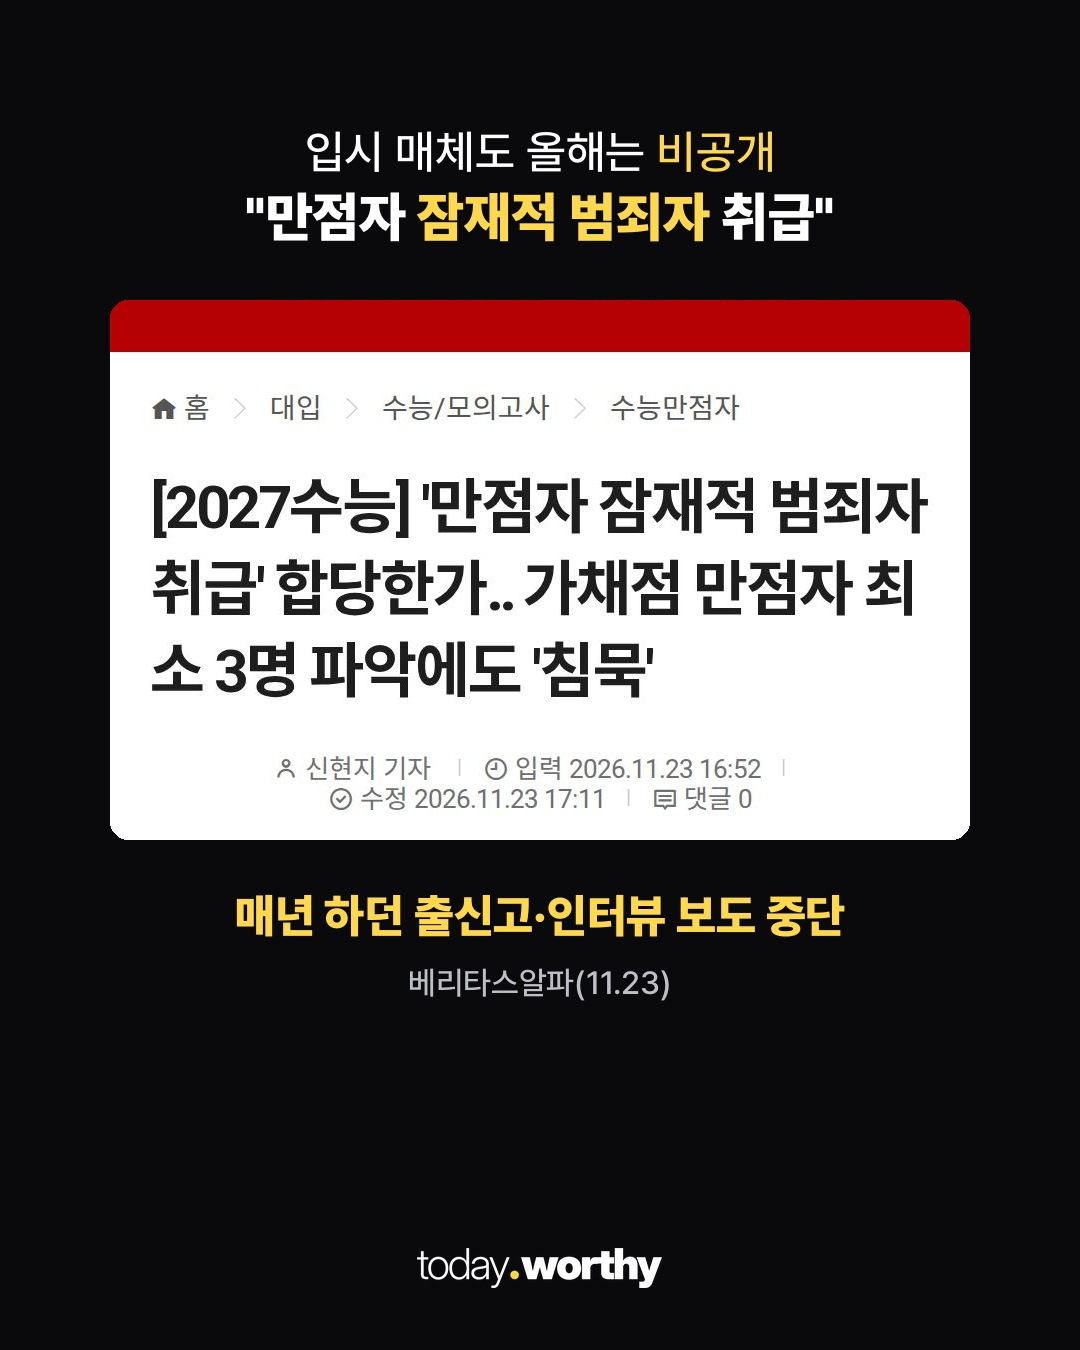
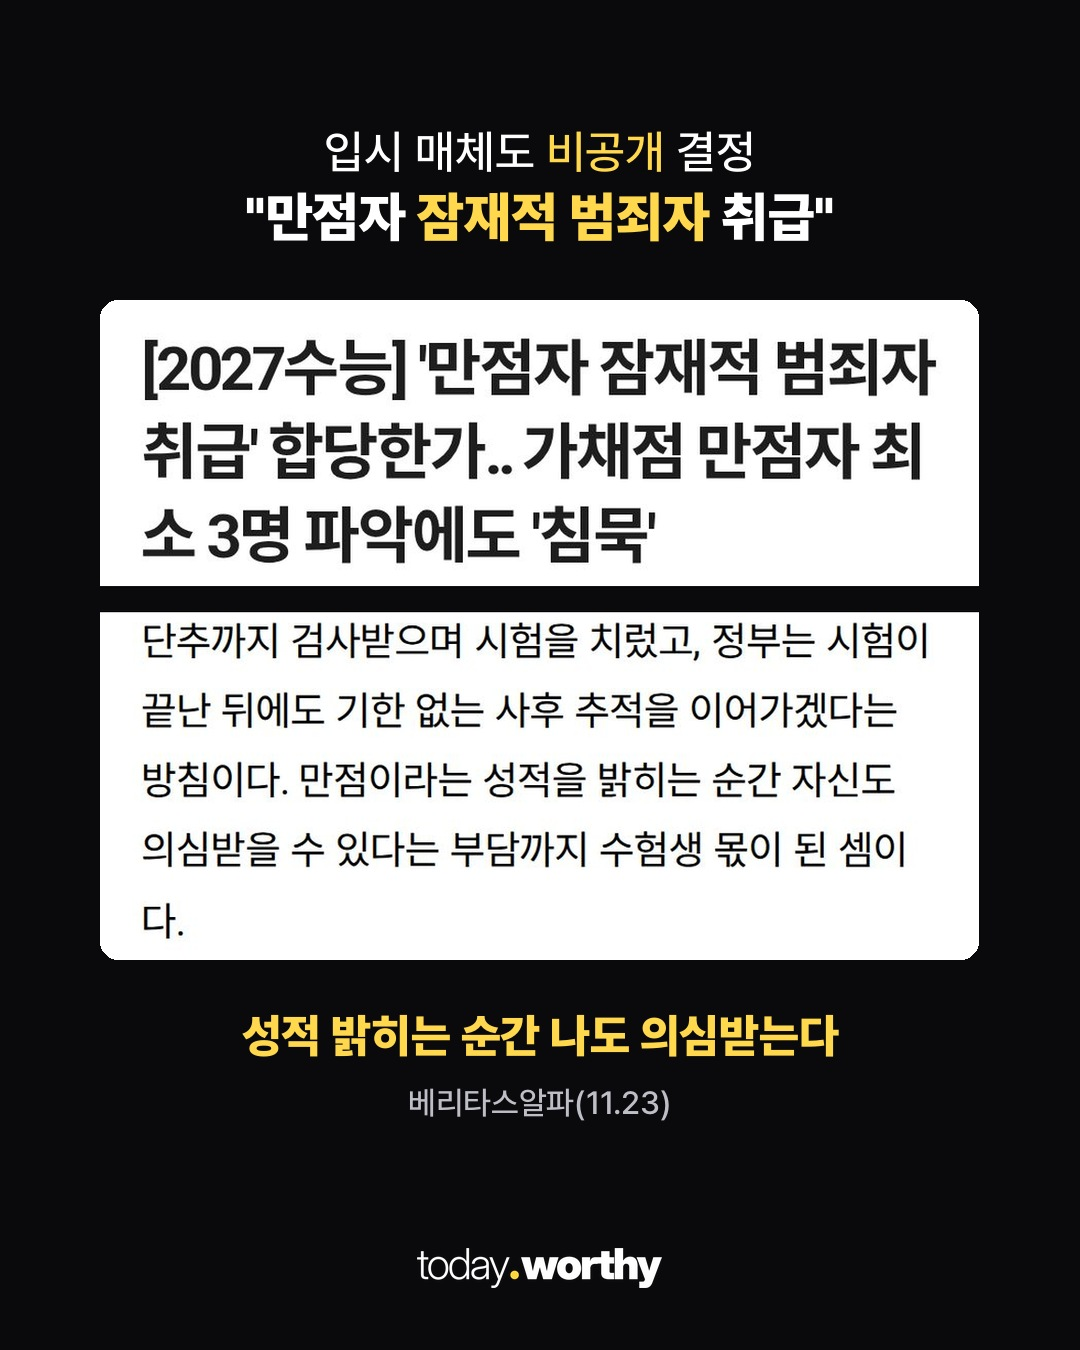
manual: 수능 만점자 2장에 이유 문단(렌더만)

Changed region(s): [[0.0917, 0.2178, 0.9167, 0.84], [0.275, 0.0933, 0.7333, 0.1244]]

diff --git a/media/20261125-mjhide/build_cards.py b/media/20261125-mjhide/build_cards.py
@@ -67,15 +67,16 @@ def panel(rows, h=640, gap=None):
 
 def cap(src, box, h):
     im = op(src).crop(box); return im.resize((round(im.width * h / im.height), h), Image.LANCZOS) if im.width * h / im.height <= 940 else im.resize((940, round(im.height * 940 / im.width)), Image.LANCZOS)
-# 2026.11.25 사용자 지시: 캡처 군더더기(팔로우 버튼·요약·경로·기자줄) 빼고 두 장 한 장으로
-w1 = op("wiki.jpg").crop((0, 0, 860, 335)); v1 = op("veritas.jpg").crop((0, 600, 860, 880))
-w1 = w1.resize((940, round(w1.height * 940 / 860)), Image.LANCZOS); v1 = v1.resize((940, round(v1.height * 940 / 860)), Image.LANCZOS)
-stack = Image.new("RGB", (940, w1.height + 28 + v1.height), (10, 10, 12)); stack.paste(w1, (0, 0)); stack.paste(v1, (0, w1.height + 28))
-if stack.height > 660: stack = stack.resize((round(stack.width * 660 / stack.height), 660), Image.LANCZOS)
-frame(("27수능 가채점 만점자 '최소 3명'", "학생도 언론도 '비공개'"), stack,
-      "만점 알려지는 순간 '의혹' 표적", "위키트리(11.24)·베리타스알파(11.23)").save(O / "c02.jpg", quality=93)
-frame(("시험 전엔 안경·단추 검사", "시험 뒤엔 1년 전 '시험지'까지"), cap("veritas.jpg", (0, 3000, 860, 3950), 640),
-      "성적 밝히는 순간 '나도 의심'받는다", "베리타스알파(11.23)").save(O / "c04.jpg", quality=93)
+# 2026.11.25 사용자 지시: 캡처 군더더기 빼고, 2장엔 '이유'가 보이게(제목 + 이유 문단), 3장은 베리타스 제목 + 나머지 문단
+def stack2(top, bot, maxh=660):
+    t = top.resize((940, round(top.height * 940 / top.width)), Image.LANCZOS); b = bot.resize((940, round(bot.height * 940 / bot.width)), Image.LANCZOS)
+    st = Image.new("RGB", (940, t.height + 28 + b.height), (10, 10, 12)); st.paste(t, (0, 0)); st.paste(b, (0, t.height + 28))
+    return st.resize((round(st.width * maxh / st.height), maxh), Image.LANCZOS) if st.height > maxh else st
+ver = op("veritas.jpg")
+frame(("만점 받고도 왜 숨을까", "\"공개를 꺼리는 '이유'는 분명하다\""), stack2(op("wiki.jpg").crop((0, 0, 860, 335)), ver.crop((0, 3125, 860, 3622))),
+      "1년 전 수능 시험지까지 '다시 본다'", "위키트리(11.24)·베리타스알파(11.23)").save(O / "c02.jpg", quality=93)
+frame(("입시 매체도 '비공개' 결정", "\"만점자 '잠재적 범죄자' 취급\""), stack2(ver.crop((0, 600, 860, 880)), ver.crop((0, 3622, 860, 3962))),
+      "성적 밝히는 순간 '나도 의심'받는다", "베리타스알파(11.23)").save(O / "c03.jpg", quality=93)
 # 2026.11.25 사용자 지시: 표지는 제미나이 AI 생성 사진(가상 인물) — 'AI 생성 이미지' 작게 표시
 bg = ImageOps.fit(op("ai_cover.png"), (W, H), Image.LANCZOS, centering=(.5, .5))
 d = ImageDraw.Draw(bg); f = F("SemiBold", 30); t = "AI 생성 이미지"
